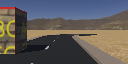
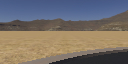
Adicionando as funções grayscale, threshold e detecção da linha.

diff --git a/camera_funcoes.py b/camera_funcoes.py
@@ -1,6 +1,7 @@
 import cv2
 import numpy as np
 
+
 def leitura_camera():
     img = cv2.imread("../Carro_autonomo_Simulador/camera1.jpg", cv2.IMREAD_COLOR)
     width = int(img.shape[1] * 2)
@@ -8,9 +9,10 @@ def leitura_camera():
 
     dim = (width, height)
 
-    img1 = cv2.resize(img, dim, interpolation= cv2.INTER_AREA)
+    img1 = cv2.resize(img, dim, interpolation=cv2.INTER_AREA)
 
     return img1
+
 
 def transformacao_warp(image):
     w = image.shape[1]
@@ -24,4 +26,168 @@ def transformacao_warp(image):
     invM = cv2.getPerspectiveTransform(dst, src)
 
     warped = cv2.warpPerspective(image, M, (image.shape[1], image.shape[0]), flags=cv2.INTER_LINEAR)
-    return warped
+
+    return warped, invM
+
+
+def transformacao_grayscale(imagem):
+    return cv2.cvtColor(imagem, cv2.COLOR_BGR2GRAY)
+
+
+def transformacao_threshold(imagem):
+    ret, imagem = cv2.threshold(imagem, 100, 225, cv2.THRESH_BINARY)
+
+    if ret == False:
+        print("Erro no Threshold!")
+    else:
+        return imagem
+
+
+# Fit a poly to perform a directed search in well known areas
+def fit_poly(img_shape, leftx, lefty, rightx, righty):
+    # Fit a second order polynomial to each with np.polyfit()
+    left_fit = np.polyfit(lefty, leftx, 2)
+    right_fit = np.polyfit(righty, rightx, 2)
+    # Generate x and y values for plotting
+    ploty = np.linspace(0, img_shape[0] - 1, img_shape[0])
+    # Calc both polynomials using ploty, left_fit and right_fit
+    left_fitx = left_fit[0] * ploty ** 2 + left_fit[1] * ploty + left_fit[2]
+    right_fitx = right_fit[0] * ploty ** 2 + right_fit[1] * ploty + right_fit[2]
+
+    return left_fitx, right_fitx, ploty
+
+
+def find_lane_pixels(image):
+    histogram = np.sum(image[image.shape[0] // 2:, :], axis=0)
+    out_img = np.dstack((image, image, image)) * 255
+    midpoint = np.int(histogram.shape[0] // 2)
+    leftx_base = np.argmax(histogram[:midpoint])
+    rightx_base = np.argmax(histogram[midpoint:]) + midpoint
+
+    nwindows = 9
+    margin = 100
+    minpix = 50
+
+    window_height = np.int(image.shape[0] // nwindows)
+
+    nonzero = image.nonzero()
+    nonzeroy = np.array(nonzero[0])
+    nonzerox = np.array(nonzero[1])
+
+    leftx_current = leftx_base
+    rightx_current = rightx_base
+
+    left_lane_inds = []
+    right_lane_inds = []
+
+    for window in range(nwindows):
+        # Identify window boundaries in x and y (and right and left)
+        win_y_low = image.shape[0] - (window + 1) * window_height
+        win_y_high = image.shape[0] - window * window_height
+        win_xleft_low = leftx_current - margin
+        win_xleft_high = leftx_current + margin
+        win_xright_low = rightx_current - margin
+        win_xright_high = rightx_current + margin
+
+        # Draw the windows on the visualization image
+        cv2.rectangle(out_img, (win_xleft_low, win_y_low), (win_xleft_high, win_y_high), (0, 255, 0), 4)
+        cv2.rectangle(out_img, (win_xright_low, win_y_low), (win_xright_high, win_y_high), (0, 255, 0), 4)
+
+        # Identify the nonzero pixels in x and y within the window ###
+        good_left_inds = ((nonzeroy >= win_y_low) & (nonzeroy < win_y_high) & (nonzerox >= win_xleft_low) & (
+                nonzerox < win_xleft_high)).nonzero()[0]
+        good_right_inds = ((nonzeroy >= win_y_low) & (nonzeroy < win_y_high) & (nonzerox >= win_xright_low) & (
+                nonzerox < win_xright_high)).nonzero()[0]
+
+        # Append these indices to the lists
+        left_lane_inds.append(good_left_inds)
+        right_lane_inds.append(good_right_inds)
+
+        # If you found > minpix pixels, recenter next window on their mean position
+        if len(good_left_inds) > minpix:
+            leftx_current = np.int(np.mean(nonzerox[good_left_inds]))
+        if len(good_right_inds) > minpix:
+            rightx_current = np.int(np.mean(nonzerox[good_right_inds]))
+
+    # Concatenate the arrays of indices (previously was a list of lists of pixels)
+    try:
+        left_lane_inds = np.concatenate(left_lane_inds)
+        right_lane_inds = np.concatenate(right_lane_inds)
+    except ValueError:
+        # Avoids an error if the above is not implemented fully
+        pass
+
+    # Extract left and right line pixel positions
+    leftx = nonzerox[left_lane_inds]
+    lefty = nonzeroy[left_lane_inds]
+    rightx = nonzerox[right_lane_inds]
+    righty = nonzeroy[right_lane_inds]
+
+    return leftx, lefty, rightx, righty, out_img
+
+
+def search_around_poly(image):
+    margin = 100
+
+    # Grab activated pixels
+    nonzero = image.nonzero()
+    nonzeroy = np.array(nonzero[0])
+    nonzerox = np.array(nonzero[1])
+
+    leftx, lefty, rightx, righty, out_img = find_lane_pixels(image)
+    if ((len(leftx) == 0) or (len(rightx) == 0) or (len(righty) == 0) or (len(lefty) == 0)):
+        out_img = np.dstack((image, image, image)) * 255
+        left_curverad = 0
+        right_curverad = 0
+    else:
+        left_fit = np.polyfit(lefty, leftx, 2)
+        right_fit = np.polyfit(righty, rightx, 2)
+
+        ### Set the area of search based on activated x-values ###
+        ### within the +/- margin of our polynomial function ###
+        left_lane_inds = ((nonzerox > (left_fit[0] * (nonzeroy ** 2) + left_fit[1] * nonzeroy +
+                                       left_fit[2] - margin)) & (nonzerox < (left_fit[0] * (nonzeroy ** 2) +
+                                                                             left_fit[1] * nonzeroy + left_fit[
+                                                                                 2] + margin)))
+        right_lane_inds = ((nonzerox > (right_fit[0] * (nonzeroy ** 2) + right_fit[1] * nonzeroy +
+                                        right_fit[2] - margin)) & (nonzerox < (right_fit[0] * (nonzeroy ** 2) +
+                                                                               right_fit[1] * nonzeroy + right_fit[
+                                                                                   2] + margin)))
+
+        # Again, extract left and right line pixel positions
+        leftx = nonzerox[left_lane_inds]
+        lefty = nonzeroy[left_lane_inds]
+        rightx = nonzerox[right_lane_inds]
+        righty = nonzeroy[right_lane_inds]
+
+        # Fit new polynomials
+        left_fitx, right_fitx, ploty = fit_poly(image.shape, leftx, lefty, rightx, righty)
+
+        ym_per_pix = 30 / 720  # meters per pixel in y dimension
+        xm_per_pix = 3.7 / 650  # meters per pixel in x dimension
+
+        # Calculate the curvature
+        left_fit_cr = np.polyfit(ploty * ym_per_pix, left_fitx * xm_per_pix, 2)
+        right_fit_cr = np.polyfit(ploty * ym_per_pix, right_fitx * xm_per_pix, 2)
+        y_eval = np.max(ploty)
+        left_curverad = ((1 + (2 * left_fit_cr[0] * y_eval * ym_per_pix + left_fit_cr[1]) ** 2) ** 1.5) / np.absolute(
+            2 * left_fit_cr[0])
+        right_curverad = ((1 + (
+                2 * right_fit_cr[0] * y_eval * ym_per_pix + right_fit_cr[1]) ** 2) ** 1.5) / np.absolute(
+            2 * right_fit_cr[0])
+
+        ## Visualization ##
+        # Create an image to draw on and an image to show the selection window
+        out_img = np.dstack((image, image, image)) * 255
+        window_img = np.zeros_like(out_img)
+        # Color in left and right line pixels
+        out_img[nonzeroy[left_lane_inds], nonzerox[left_lane_inds]] = [255, 0, 0]
+        out_img[nonzeroy[right_lane_inds], nonzerox[right_lane_inds]] = [0, 0, 255]
+
+        # Generate and draw a poly to illustrate the lane area
+        left = np.array([np.transpose(np.vstack([left_fitx, ploty]))])
+        right = np.array([np.flipud(np.transpose(np.vstack([right_fitx, ploty])))])
+        points = np.hstack((left, right))
+        out_img = cv2.fillPoly(out_img, np.int_(points), (0, 200, 255))
+
+    return out_img, left_curverad, right_curverad

diff --git a/main.py b/main.py
@@ -57,8 +57,8 @@ blue = (0, 0, 255)
 black = (0, 0, 0)
 gray = (200, 200, 200)
 white = (255, 255, 255)
-vertical = 50
-horizontal = 50
+vertical = 200
+horizontal = 200
 centroY = int(vertical/2)
 centroX = int(horizontal/2)
 rad = 0
@@ -71,7 +71,7 @@ surface = pygame.display.set_mode((horizontal, vertical))
 
 while robot.step(TIME_STEP) != -1:
 
-    componentes_carro.set_speed(0, left_front_wheel, right_front_wheel, left_rear_wheel, right_rear_wheel)
+    componentes_carro.set_speed(1, left_front_wheel, right_front_wheel, left_rear_wheel, right_rear_wheel)
 
     # Pegando imagem da camera do simulador
     camera.getImage()
@@ -80,14 +80,23 @@ while robot.step(TIME_STEP) != -1:
     # Fazendo a leitura da imagem com o opencv
     image = camera_funcoes.leitura_camera()
     # Fazendo a transformação Warp na imagem
-    warped = camera_funcoes.transformacao_warp(image)
+    warped, invM = camera_funcoes.transformacao_warp(image)
+    # Tranfosrmação grayscale
+    grayscale = camera_funcoes.transformacao_grayscale(warped)
+    # Transformação Threshold
+    threshold = camera_funcoes.transformacao_threshold(grayscale)
+    # Detecção da linha
+    frame, left_curverad, right_curverad = camera_funcoes.search_around_poly(threshold)
+    frame = cv2.warpPerspective(frame, invM, (frame.shape[1], frame.shape[0]), flags = cv2.INTER_LINEAR)
+    frame = cv2.addWeighted(frame, 0.3, image, 0.7, 0)
+
 
     img_copy = np.copy(image)
     img_copy = cv2.cvtColor(img_copy, cv2.COLOR_BGR2RGB)
     plt.imshow(img_copy)
     #plt.show()
 
-    cv2.imshow("camera1", warped)
+    cv2.imshow("camera1", frame)
 
     for event in pygame.event.get():
         if event.type == 256:
